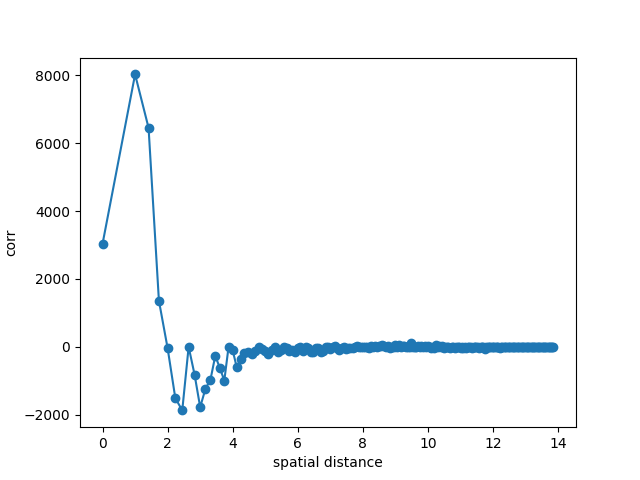
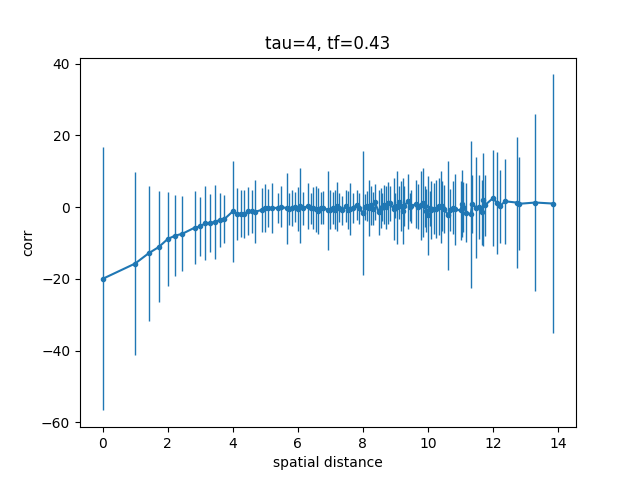
hmhmhm

diff --git a/zeugs/measurements.py b/zeugs/measurements.py
@@ -1,6 +1,7 @@
 from dataclasses import dataclass
 import re
 from pathlib import Path
+from itertools import product
 import numpy as np
 
 import matplotlib
@@ -59,7 +60,49 @@ def parse_flow_output(output : str) -> FlowMeasurements:
 
 
 
-def get_correlators(ensemble : list[FlowMeasurements], t : int, tf : float, bin_size : int = 1) -> list[tuple[float, float]]:
+
+
+def radial_multiplicities(ns : int) -> list[int]:
+    '''result[s^2] is number of cells in a ns^3 lattice with distance s^2.'''
+
+    s2_max = 3 * (ns//2)**2
+    result = [0 for _ in range(s2_max+1)]
+
+    for x,y,z in product(range(ns), repeat=3):
+        x,y,z = (min(a, ns-a) for a in (x,y,z))
+        s2 = x**2 + y**2 + z**2
+        result[s2] += 1
+
+    return result
+
+
+
+
+def make_distance_corr_arrays(radial_corrs : list, normalize : bool) -> tuple[list, list]:
+    '''Takes a list where the index corresponds to s^2.
+    Removes all unreachable s^2 and returns [s] and [G(s)] ([G(s) / ds] if normalize is true).'''
+
+    s2_max = len(radial_corrs) - 1
+    ns = round(2 * (s2_max/3)**.5)
+
+    ds_list = radial_multiplicities(ns)
+    s_list = []
+    G_list = []
+
+    for s2, ds in enumerate(ds_list):
+        if ds == 0: continue
+        s_list.append(s2**.5)
+        G_list.append(radial_corrs[s2] / (ds if normalize else 1))
+            
+    return s_list, G_list
+
+
+
+
+def get_correlators(ensemble : list[FlowMeasurements], t : int, tf : float) -> tuple[list, list, list]:
+    '''For a fixed pair (t, tf), extract the data series G(t,s) for each configuration.
+    Then for each data point, compute its mean and standard deviation.
+    Returns [s values], [G(t,s) values], [G(t,s) errors].'''
     
     if len(ensemble) == 0:
         raise Exception('Empty ensemble :(')
@@ -71,13 +114,17 @@ def get_correlators(ensemble : list[FlowMeasurements], t : int, tf : float, bin_
     i_tf = min( range(len(ensemble[0])),
                 key=lambda i: abs(ensemble[0][i].flow_time - tf) )
 
+    # fill data_all_s2
     for flow_meas in ensemble:
-        for i, v in enumerate(flow_meas[i_tf].q_corrs[t]):
-            data_all_s2[i].append(v)
+        for s2, v in enumerate(flow_meas[i_tf].q_corrs[t]):
+            data_all_s2[s2].append(v)
 
-    return [ (data.mean(), stat_error(data, bin_size))
-             for data in map(np.array, data_all_s2) ]
-            
+    # divide by radial multiplicity factors and remove unreachable s^2
+    s_list, data_all_s = make_distance_corr_arrays(list(map(np.array, data_all_s2)), normalize=True)
+
+    return s_list, \
+           [data.mean() for data in data_all_s], \
+           [np.std(data) for data in data_all_s]
 
         
 
@@ -132,13 +179,26 @@ if __name__ == '__main__':
 
         print(', '.join(f'{meas.flow_time:.2f}' for meas in data[0]))
 
-        correlators = get_correlators(data, t=1, tf=0.36)
+        t=4
+        tf=0.43
+        s_vals, corr_vals, corr_errors = get_correlators(data, t=t, tf=tf)
+
+        s2_max = round(s_vals[-1]**2)
+        ns = round(2 * (s2_max/3)**.5)
+        ds = radial_multiplicities(ns)
+        print(f'{s2_max = }, {ns = },\n{ds = }\n')
         
-        plt.plot( [s2**.5 for s2 in range(len(correlators))] ,
-                  [val for val, err in correlators],
-                  marker='o' )
+        # print(f'corrs = {[v for v,e in correlators]}\n')
+
+        plt.errorbar( s_vals ,
+                      corr_vals,
+                      yerr=corr_errors,
+                      elinewidth=1,
+                      marker='o',
+                      markersize=3 )
         plt.xlabel('spatial distance')
         plt.ylabel('corr')
+        plt.title(f'tau={t}, tf={tf}')
         plt.savefig('plot_corr.png')
 
 

diff --git a/wilson_flow/field_strength_region.c b/wilson_flow/field_strength_region.c
@@ -978,15 +978,15 @@ make_improved_temporal_fieldstrength_full ( su3_matrix **link_s,
      * integer after blocking, i.e. if there are different numbers of active sites on different 
      * nodes. Thus, the problem occurs only for certain combinations of layouts and node 
      * geometries. Thus, we do two simple gathers in sequence as a viable workaround. */
-#ifndef USE_GG
+  #ifndef USE_GG
     /* first part of diagonal gather lower left clover from diagonally across the square */
     tag[3] = start_gather_field( clov[P11], sizeof(su3_matrix), 
                                   diro[0], EVENANDODD, gen_pt[3] );
-#else
+  #else
     /* general gather lower left clover from diagonally across the square */
     tag[P11] = start_general_gather_field( clov[P11], sizeof(su3_matrix), 
                                            disp, EVENANDODD, gen_pt[P11] );
-#endif
+  #endif
     /* gather upper left clover from proper position */
     tag[P10] = start_gather_field( clov[P10], sizeof(su3_matrix), 
                                    diro[0], EVENANDODD, gen_pt[P10] );
@@ -995,7 +995,7 @@ make_improved_temporal_fieldstrength_full ( su3_matrix **link_s,
     tag[P01] = start_gather_field( clov[P01], sizeof(su3_matrix), 
                                    diro[1], EVENANDODD, gen_pt[P01] );
 
-#ifndef USE_GG
+  #ifndef USE_GG
     /* wait, copy, cleanup for first part of diagonal gather lower left clover from diagonally across the square */
     wait_gather(tag[3]);
     FORALLSITES(i,s)
@@ -1011,9 +1011,9 @@ make_improved_temporal_fieldstrength_full ( su3_matrix **link_s,
 
     /* wait, copy, cleanup for second part of diagonal gather lower left clover from diagonally across the square */
     wait_gather(tag[P11]);
-#else
+  #else
     wait_general_gather(tag[P11]);
-#endif
+  #endif
 
     wait_gather(tag[P10]);
     wait_gather(tag[P01]);
@@ -1027,12 +1027,12 @@ make_improved_temporal_fieldstrength_full ( su3_matrix **link_s,
       add_su3_matrix( &(fstrength[icomp][i]), (su3_matrix *)(gen_pt[P01][i]), &(fstrength[icomp][i]) );
     }
 
-#ifndef USE_GG
+  #ifndef USE_GG
     /* cleanup for second part of diagonal gather lower left clover from diagonally across the square */
     cleanup_gather(tag[P11]);
-#else
+  #else
     cleanup_general_gather(tag[P11]);
-#endif
+  #endif
 
     cleanup_gather(tag[P10]);
     cleanup_gather(tag[P01]);

diff --git a/wilson_flow/top_fourier.c b/wilson_flow/top_fourier.c
@@ -55,7 +55,7 @@ void corr_by_spatial_distance(double **corrs_dist) {
     site *s;
 
     int s2_max = (nx/2)*(nx/2) + (ny/2)*(ny/2) + (nz/2)*(nz/2);
-    int count = (nt / 2) * (s2_max + 1);
+    int count = (nt/2) * (s2_max + 1);
 
 
     for (int ii = 0; ii < nt/2; ii++) {
